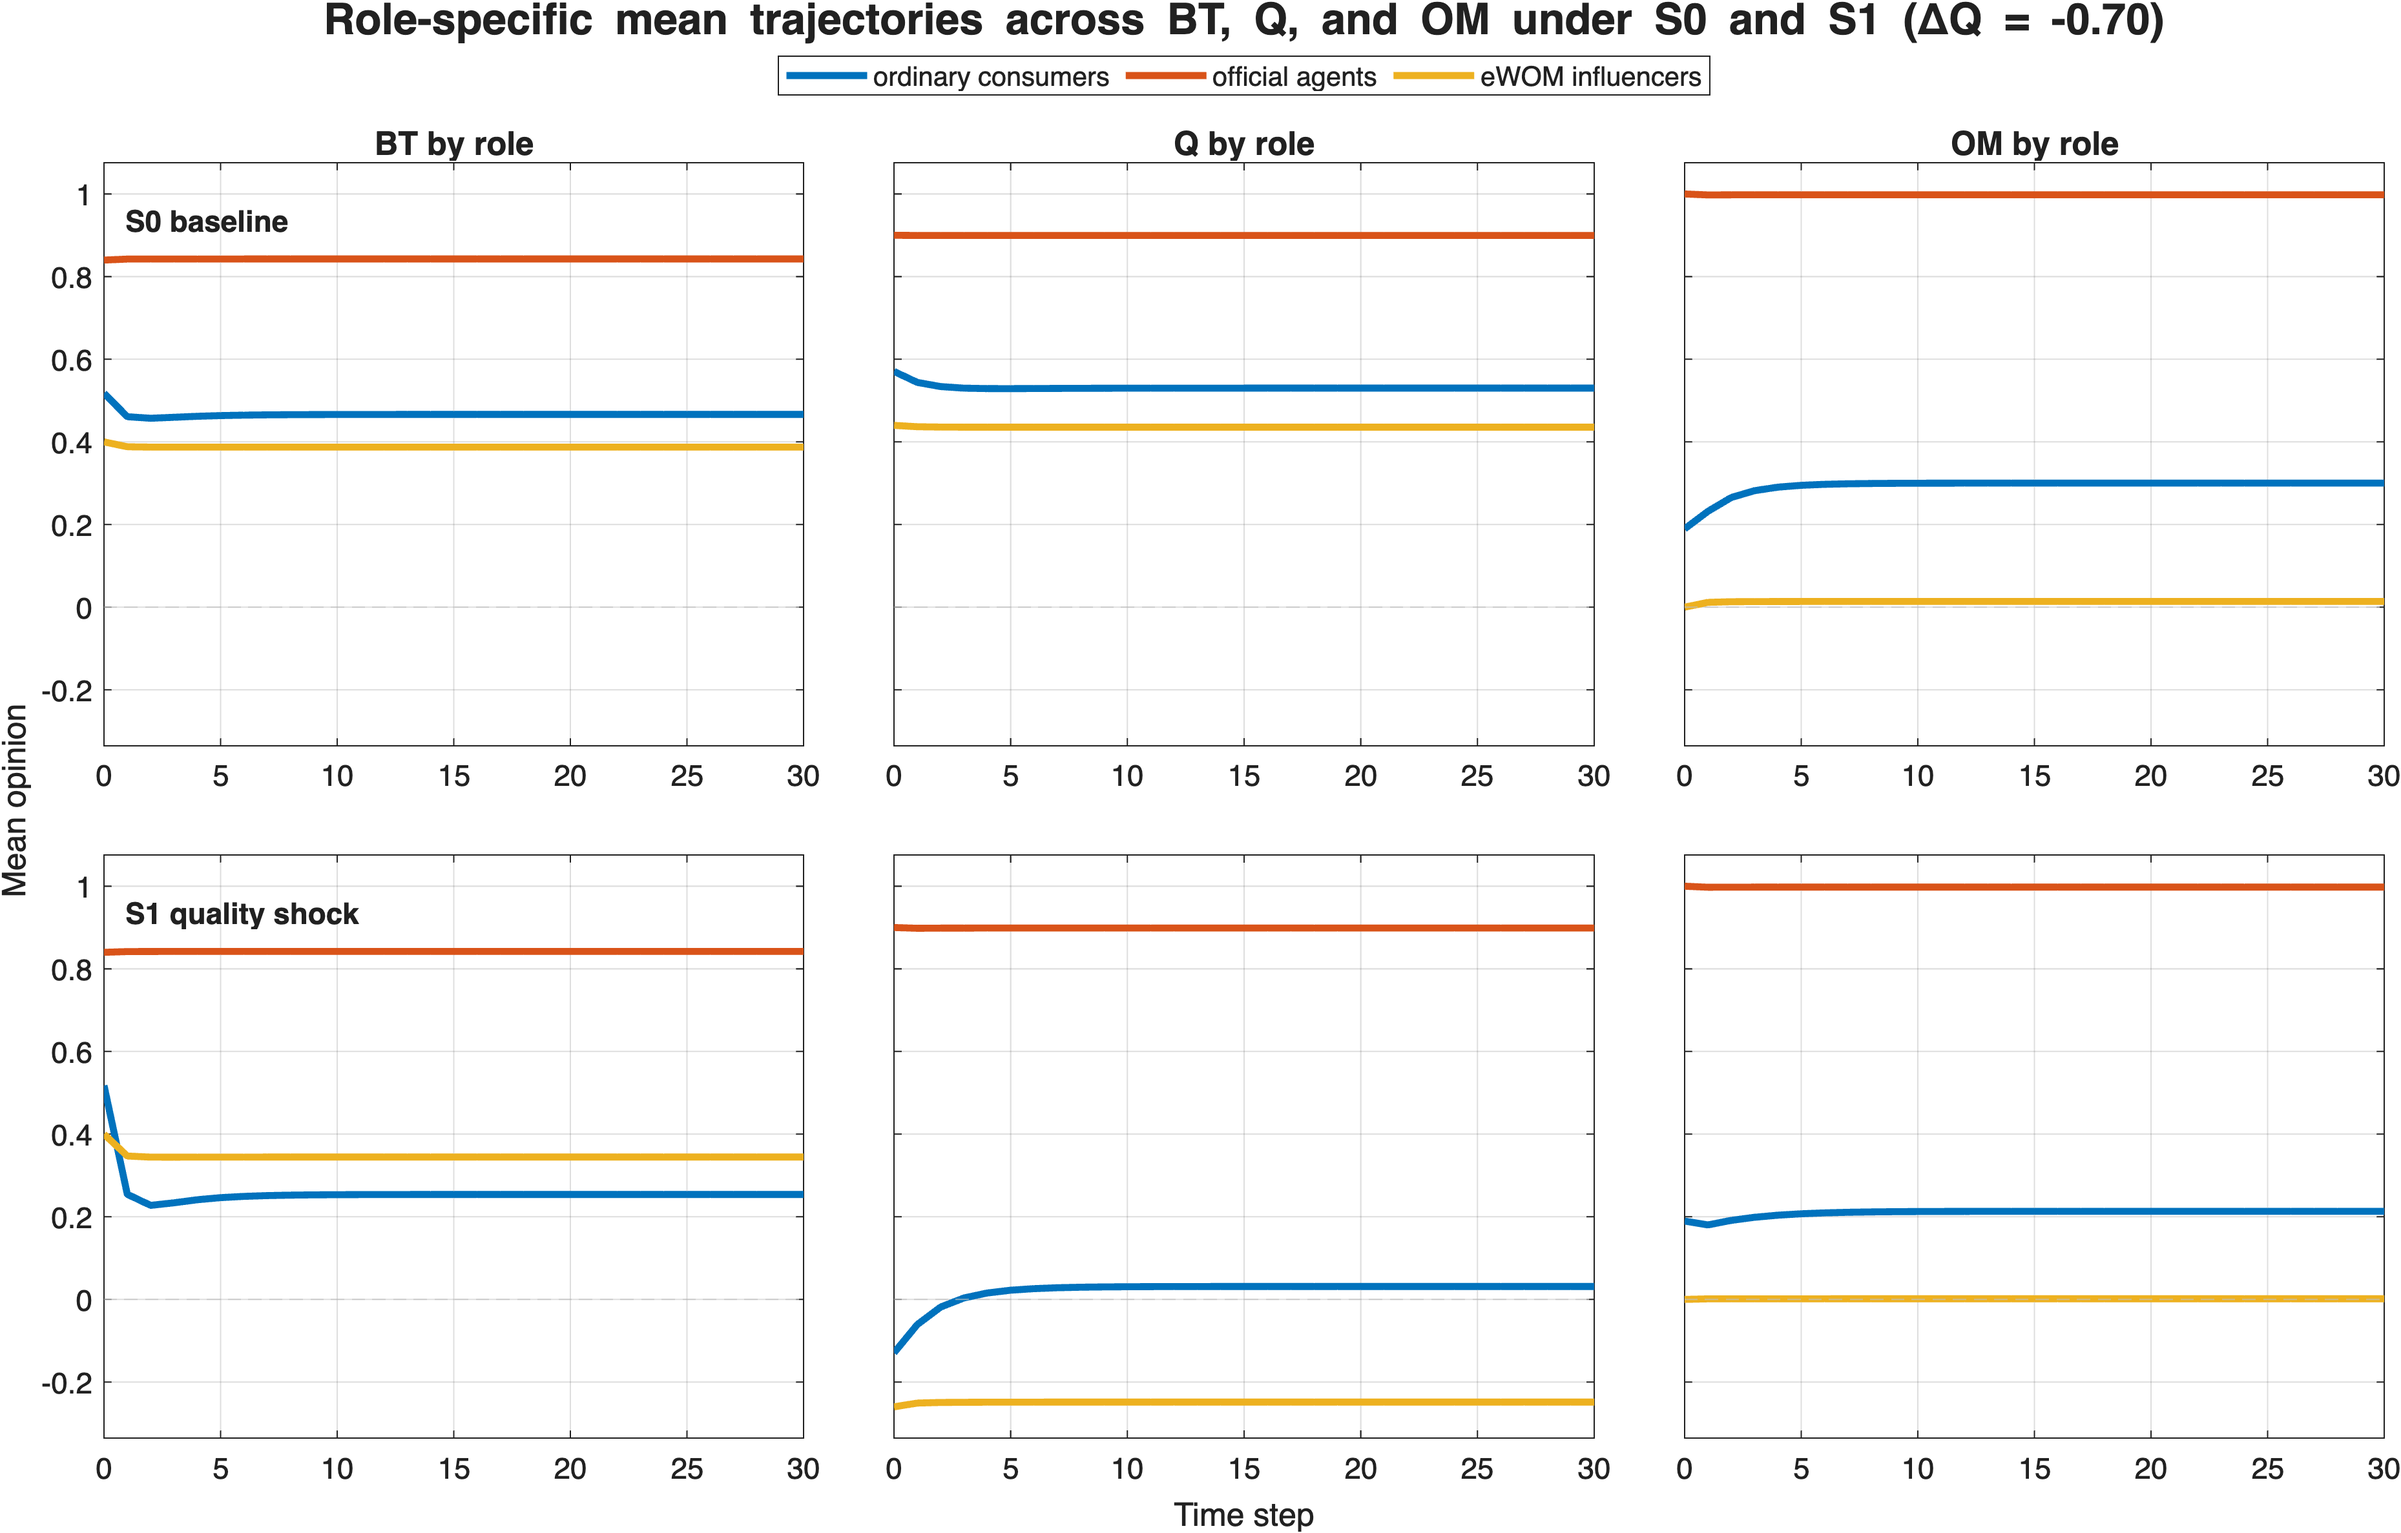
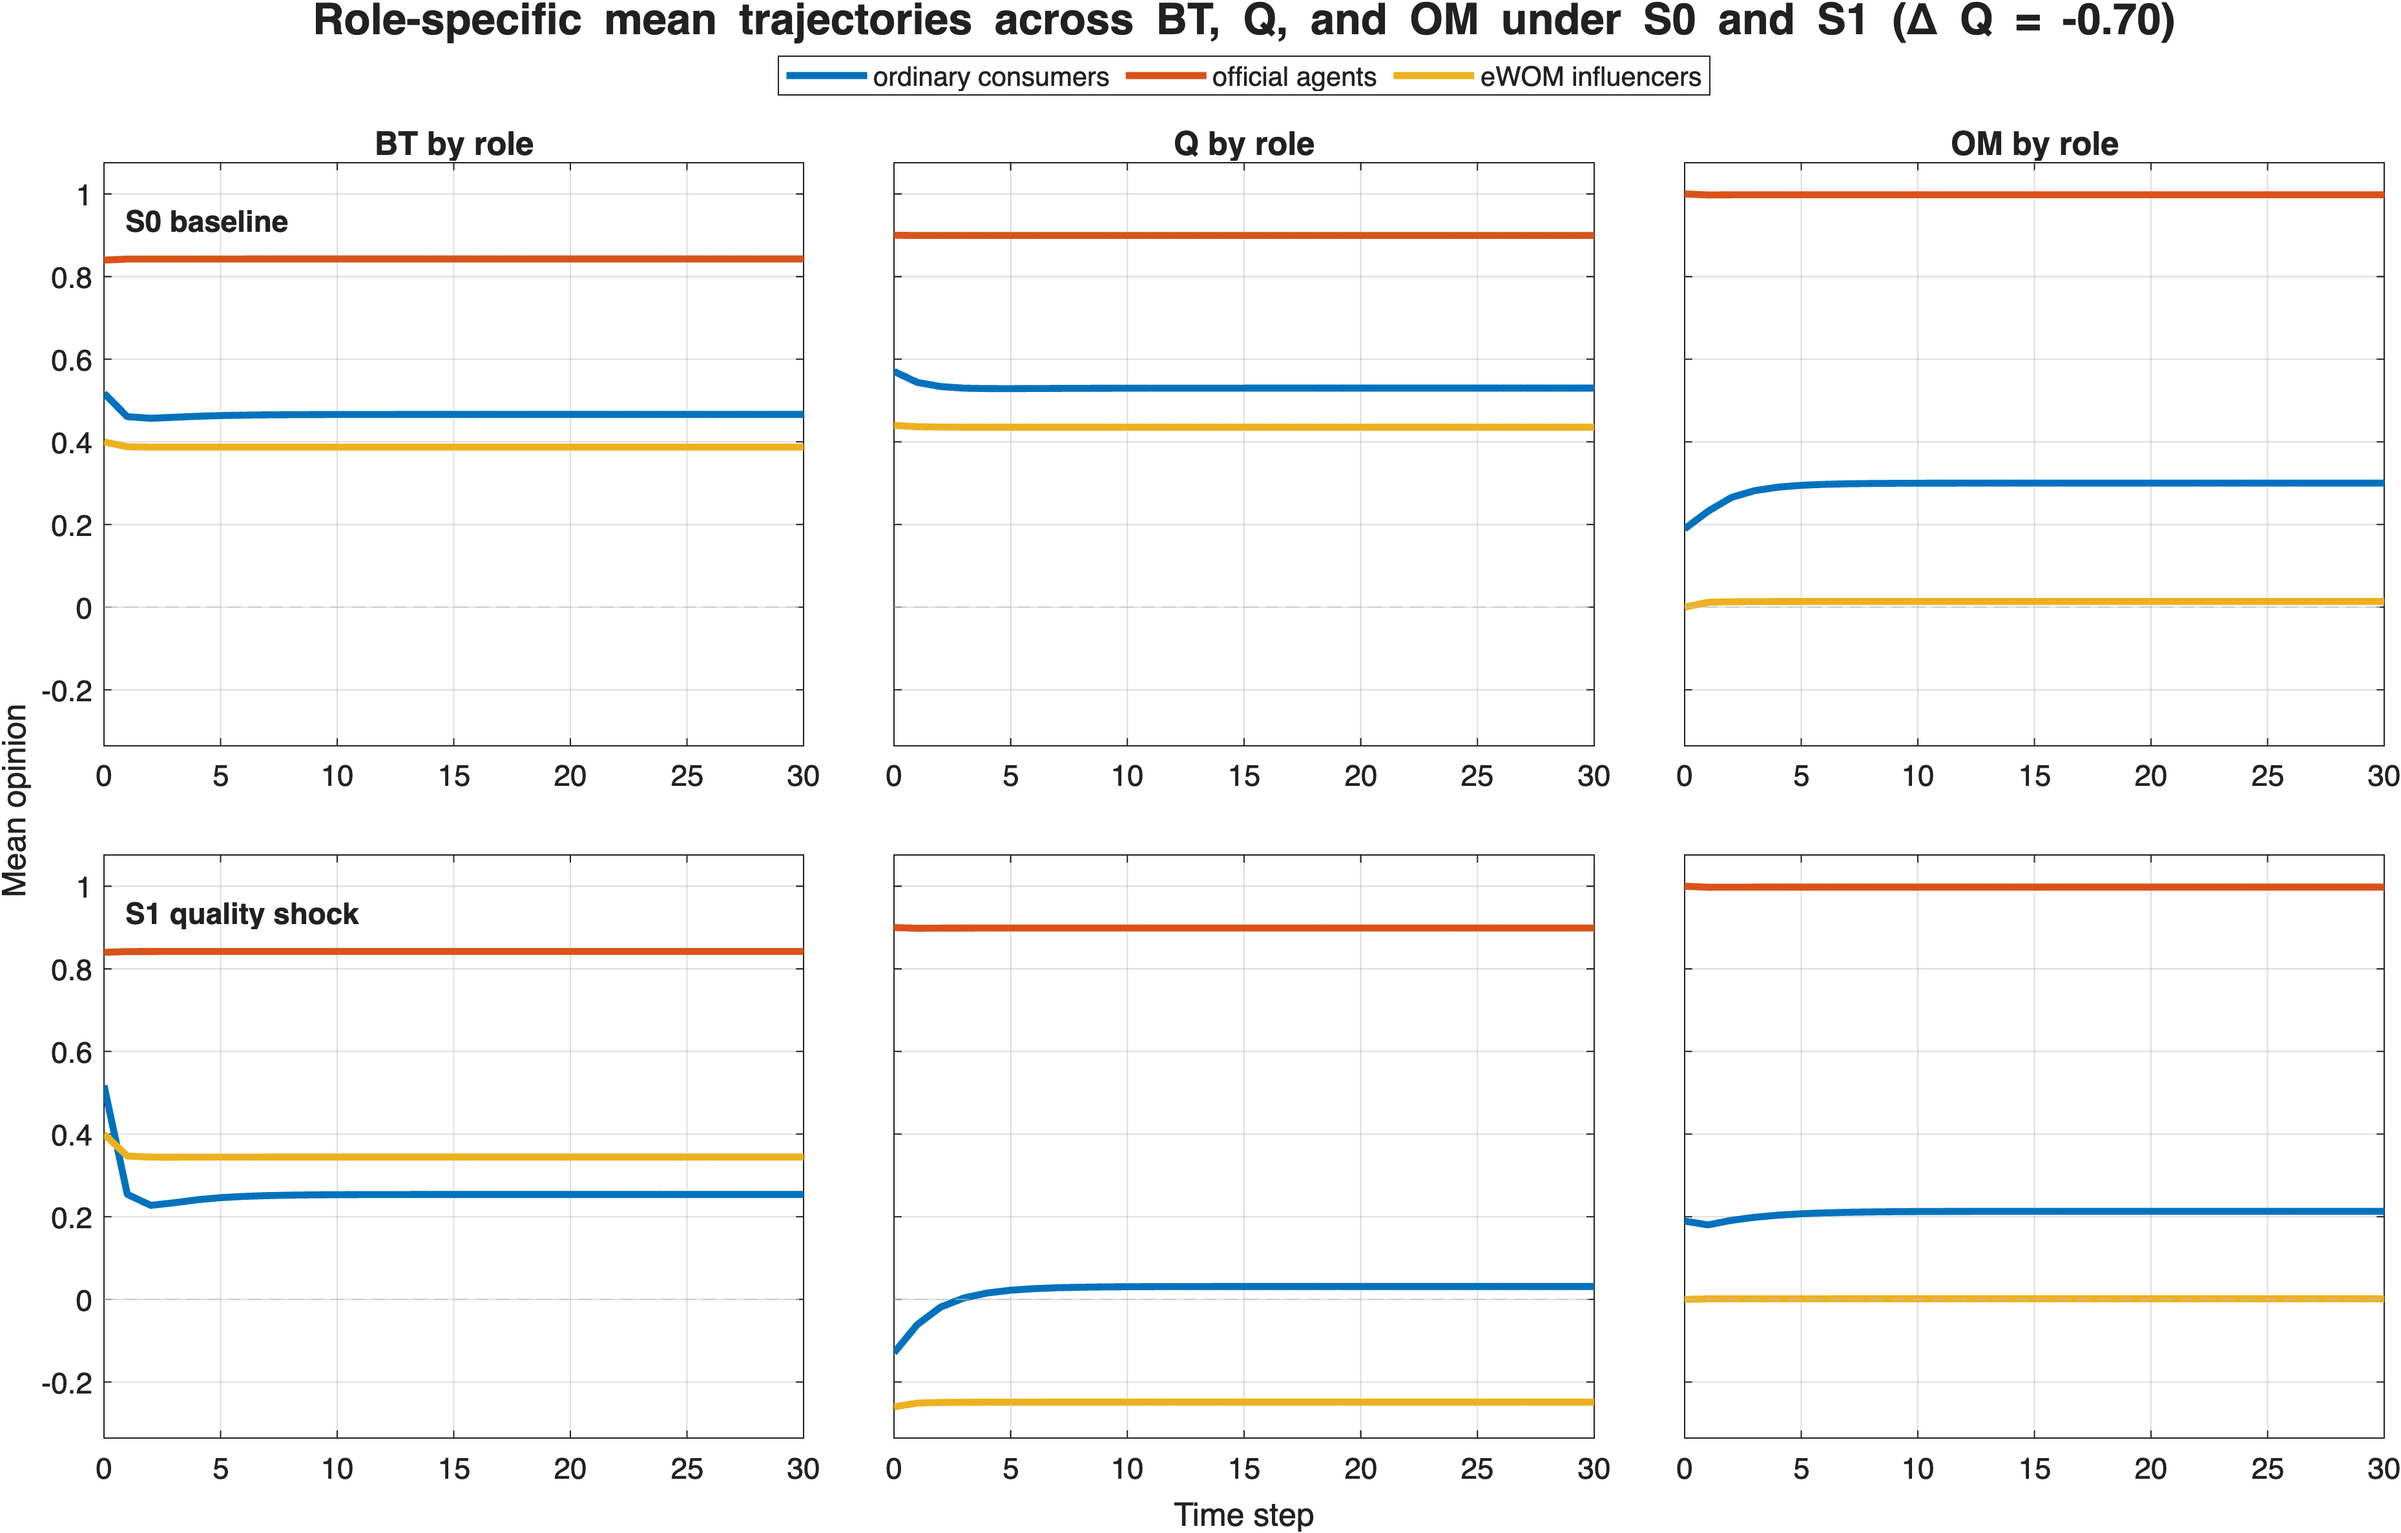
Refine Figure 4.2 legends for Section 4.1-4.3

Changed region(s): [[0.1248, 0.0, 0.905, 0.0312]]

diff --git a/plot_report_section_4_1_to_4_3.m b/plot_report_section_4_1_to_4_3.m
@@ -90,30 +90,40 @@ function plot_report_section_4_1_to_4_3(results, cfg)
     % ============================================================
     f2 = figure('Name', 'Figure_4_2_S1_MainShock_AllAgents', ...
                 'Color', 'w', ...
-                'Position', [120 100 1080 860]);
+                'Position', [120 100 1280 860]);
 
     tl1 = tiledlayout(3,1, 'TileSpacing', 'compact', 'Padding', 'compact');
 
     ax1 = nexttile;
     [hS0_1, hS1_1] = plot_topic_compare_panel(ax1, tt, Y0_all(:,bt), Y1_all(:,bt), ...
         'BT trajectories', colBT, deltaMain, colS0, zeroCol);
+    legend(ax1, [hS0_1, hS1_1], ...
+        {'BT under S0', 'BT under S1'}, ...
+        'Location', 'eastoutside', ...
+        'FontSize', 10, ...
+        'Box', 'on');
 
     ax2 = nexttile;
-    plot_topic_compare_panel(ax2, tt, Y0_all(:,q), Y1_all(:,q), ...
+    [hS0_2, hS1_2] = plot_topic_compare_panel(ax2, tt, Y0_all(:,q), Y1_all(:,q), ...
         'Q trajectories', colQ, deltaMain, colS0, zeroCol);
+    legend(ax2, [hS0_2, hS1_2], ...
+        {'Q under S0', 'Q under S1'}, ...
+        'Location', 'eastoutside', ...
+        'FontSize', 10, ...
+        'Box', 'on');
 
     ax3 = nexttile;
-    plot_topic_compare_panel(ax3, tt, Y0_all(:,om), Y1_all(:,om), ...
+    [hS0_3, hS1_3] = plot_topic_compare_panel(ax3, tt, Y0_all(:,om), Y1_all(:,om), ...
         'OM trajectories', colOM, deltaMain, colS0, zeroCol);
-
-    lgd2 = legend(ax1, [hS0_1, hS1_1], ...
-        {'S0 reference', sprintf('S1 quality shock (\\DeltaQ = %.2f)', deltaMain)}, ...
-        'Orientation', 'horizontal', 'FontSize', 11);
-    lgd2.Layout.Tile = 'north';
+    legend(ax3, [hS0_3, hS1_3], ...
+        {'OM under S0', 'OM under S1'}, ...
+        'Location', 'eastoutside', ...
+        'FontSize', 10, ...
+        'Box', 'on');
 
     xlabel(tl1, 'Time step', 'FontSize', 12);
     ylabel(tl1, 'Mean opinion', 'FontSize', 12);
-    title(tl1, sprintf('S1 main quality shock (\\DeltaQ = %.2f): all-agent mean trajectories compared with S0', deltaMain), ...
+    title(tl1, sprintf('S1 main quality shock (\\Delta Q = %.2f): all-agent mean trajectories compared with S0', deltaMain), ...
         'FontSize', 16, 'FontWeight', 'bold');
 
     exportgraphics(f2, fullfile(outdir, 'Figure_4_2_S1_MainShock_AllAgents.png'), 'Resolution', 300);
@@ -145,7 +155,7 @@ function plot_report_section_4_1_to_4_3(results, cfg)
 
     xlabel(tl2, 'Time step', 'FontSize', 12);
     ylabel(tl2, 'Mean opinion', 'FontSize', 12);
-    title(tl2, sprintf('BT trajectories by role under S0 and S1 (\\DeltaQ = %.2f)', deltaMain), ...
+    title(tl2, sprintf('BT trajectories by role under S0 and S1 (\\Delta Q = %.2f)', deltaMain), ...
         'FontSize', 16, 'FontWeight', 'bold');
 
     exportgraphics(f3, fullfile(outdir, 'Figure_4_3_BT_ByRole_S0_vs_S1.png'), 'Resolution', 300);
@@ -211,7 +221,7 @@ function plot_report_section_4_1_to_4_3(results, cfg)
 
     xlabel(tl3, 'Time step', 'FontSize', 12);
     ylabel(tl3, 'Mean opinion', 'FontSize', 12);
-    title(tl3, sprintf('Role-specific mean trajectories across BT, Q, and OM under S0 and S1 (\\DeltaQ = %.2f)', deltaMain), ...
+    title(tl3, sprintf('Role-specific mean trajectories across BT, Q, and OM under S0 and S1 (\\Delta Q = %.2f)', deltaMain), ...
         'FontSize', 16, 'FontWeight', 'bold');
 
     exportgraphics(f4, fullfile(outdir, 'Appendix_A1_RoleSpecific_AllTopics.png'), 'Resolution', 300);
@@ -231,7 +241,7 @@ function [hS0, hS1] = plot_topic_compare_panel(ax, tt, Y0_topic, Y1_topic, panel
     hS1 = plot(ax, tt, Y1_topic, '-', ...
         'Color', topicColor, ...
         'LineWidth', 2.8, ...
-        'DisplayName', sprintf('S1 quality shock (\\DeltaQ = %.2f)', deltaQ));
+        'DisplayName', sprintf('S1 quality shock (\\Delta Q = %.2f)', deltaQ));
 
     plot(ax, tt(end), Y0_topic(end), 'o', ...
         'Color', colS0, 'MarkerFaceColor', colS0, ...
